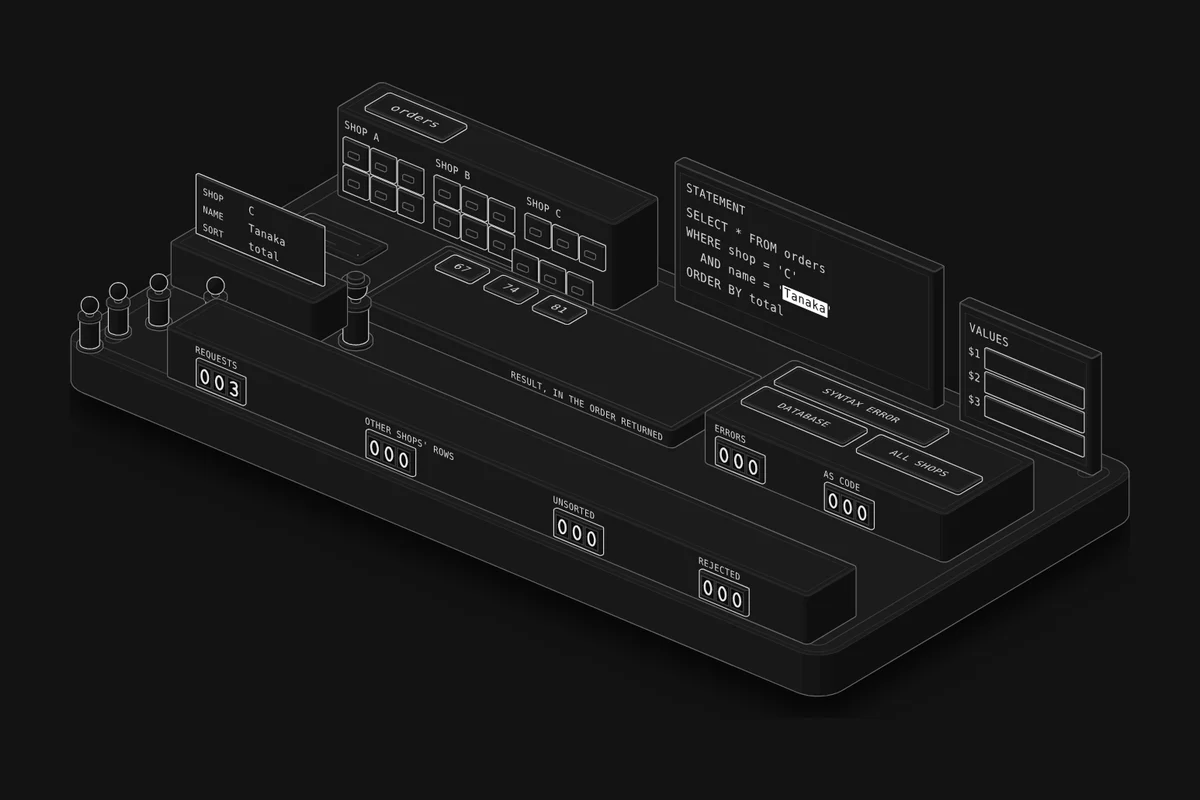
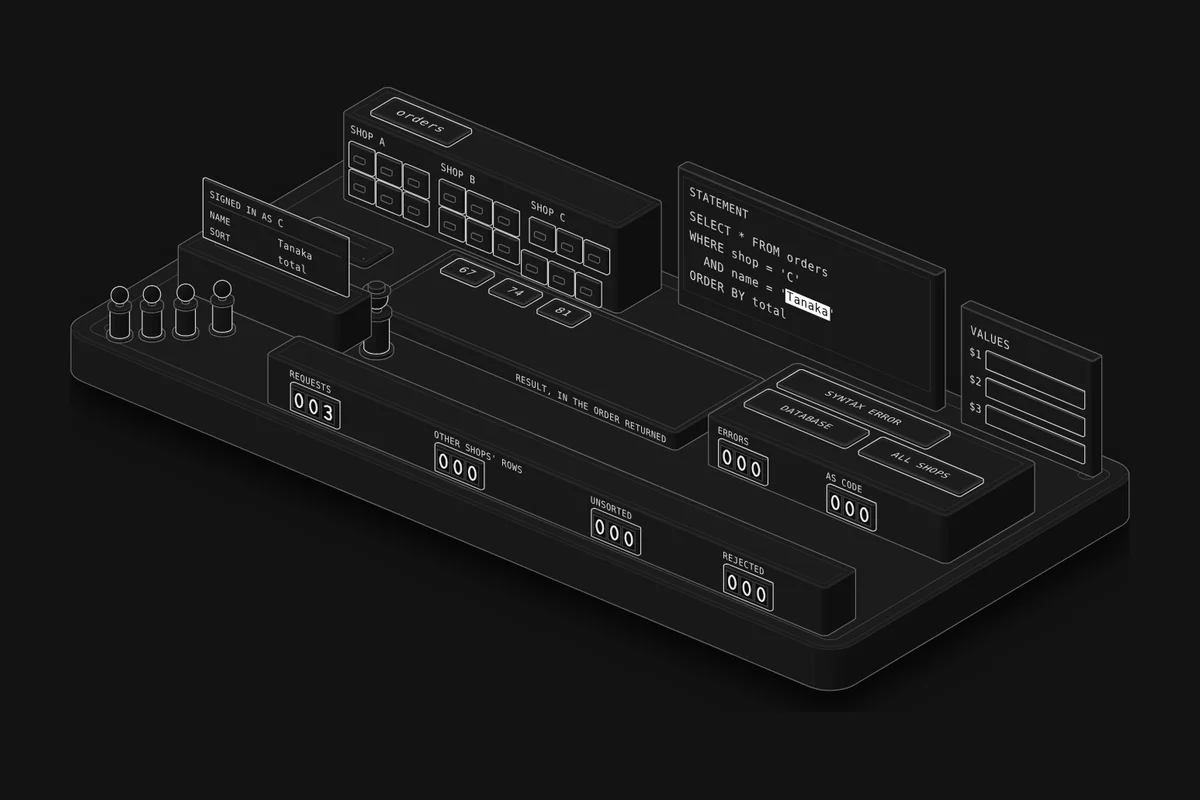
Lesson 83: fix review findings (shop from the session and $1 unlit, value boxes, queue and bench layout, drawer order, held Watch results)
Claude-Session: https://claude.ai/code/session_01S5z2gCvevbrGU3fXgpGDmP

diff --git a/src/lessons/injection/figure.ts b/src/lessons/injection/figure.ts
@@ -1,12 +1,14 @@
 // @ts-nocheck: figure code in the style of the other lessons; drawing shorthands come from src/lib/draw.
 // A records room that answers order lookups with SQL.
-//   Front left: visitors (shop staff) queue at the window desk; the slip stand on the desk shows what the one at the
-//   window typed (shop, name, sort). The clerk behind the desk writes the statement on the big board at the back:
-//   pasted words are printed inline, on a lit strip; with parameters the statement keeps its $1 $2 $3 slots and the
-//   words go into the boxes of the VALUES board beside it. The cabinet at the back left is the orders table, a
-//   drawer per row, in three shops; the rows a statement returns slide out and are laid in the result tray in the
-//   order the database gave them, each card showing the value the list was sorted by (a lit card: another shop's row).
-//   With the row policy on, shutters close over the other shops' drawers. Counters on the tally bench, front right.
+//   Front left: visitors (shop staff) queue at the window desk; the slip stand on the desk shows the shop the one at
+//   the window is signed in as (from their session) and what they typed (name, sort). The clerk behind the desk writes
+//   the statement on the big board at the back: pasted words are printed inline, on a lit strip; with parameters the
+//   statement keeps its $1 $2 $3 slots and the values go into the boxes of the VALUES board beside it, the visitor's
+//   words lit, the app's own value ($1, the shop) not. The cabinet at the back left is the orders table, a drawer per
+//   row, in three shops; the rows a statement returns slide out and are laid in the result tray in the order the
+//   database gave them, each card showing the value the list was sorted by (a lit card: another shop's row). With the
+//   row policy on, shutters close over the other shops' drawers. The database, right of the tray, counts errors and
+//   requests whose words became code; the tally bench, front right, counts what came back to the window.
 // Built with the Anatomy kit (MIT, github.com/wheresryan22/anatomy) and the shared workbench parts.
 import * as k from "../../../workbench/kit.mjs";
 import { basePlate, labelPlate, digitCounter, person, plaque, faceText } from "../../../workbench/parts.mjs";
@@ -16,14 +18,14 @@ import { shorthand } from "../../lib/draw";
 export const WIDTH = 700;
 export const HEIGHT = 440;
 
-const PLATE = { x: -126, y: -100, w: 252, d: 126, r: 8 };
+const PLATE = { x: -132, y: -100, w: 258, d: 122, r: 8 };
 const PLATE_H = 12, FOOT_H = 5;
 
 // ---------- the orders cabinet (the table), back left ----------
 const CAB = { x: -120, y: -94, w: 92, d: 18, r: 1.4 };
 const CAB_H = 25;
 export const CAB_FRONT = CAB.y + CAB.d;
-export const DRAWER = { w: 8, h: 7, gap: 1, z: [2.6, 10.8], out: 5 };
+export const DRAWER = { w: 8, h: 7, gap: 1, z: [2.6, 10.8], out: 3.2 };
 export const GROUP_X = [0, 1, 2].map((g) => CAB.x + 3 + g * 30);      // left edge of each shop's drawers
 // drawer i (0..17, the table's storage order): shop g = floor(i / 6), then 3 columns × 2 rows
 export const DRAWER_AT = Array.from({ length: 18 }, (_, i) => {
@@ -41,8 +43,8 @@ export const LINE_SIZE = 3.6;
 const VALS = { x: 74, y: -94, w: 44, d: 4, r: 0.6 };
 const VALS_H = 34;
 export const VALS_FACE = VALS.y + VALS.d;
-export const VAL_Z = [18.8, 11.8, 4.8];
-export const VAL_BOX = { x0: VALS.x + 9, x1: VALS.x + VALS.w - 2.5, h: 5.6 };
+export const VAL_Z = [19.4, 11.4, 3.4];
+export const VAL_BOX = { x0: VALS.x + 9, x1: VALS.x + VALS.w - 2.5, h: 5 };
 
 // ---------- the result tray, middle ----------
 const TRAY = { x: -76, y: -68, w: 104, d: 36, r: 1.4 };
@@ -55,13 +57,13 @@ export const CARD_AT = Array.from({ length: 18 }, (_, i) => {
 export const TRAY_TOP = TRAY_H;
 
 // ---------- the window desk and the visitors, front left ----------
-const DESK = { x: -123, y: -28, w: 48, d: 14, r: 1.4 };
+const DESK = { x: -123, y: -28, w: 54, d: 14, r: 1.4 };
 const DESK_H = 12;
-const STAND = { x: -120, y: -22, w: 42, d: 1, z: DESK_H, h: 17 };
+const STAND = { x: -120, y: -22, w: 48, d: 1, z: DESK_H, h: 17 };
 export const STAND_FACE = STAND.y + STAND.d;
-export const CLERK = [-68, -22, 0];
+export const CLERK = [-63, -22, 0];
 export const WINDOW = [-100, -5];
-export const QUEUE = [[-112, 3], [-117, 13], [-118, 23]];
+export const QUEUE = [[-106, 2.4], [-112, 8.6], [-118, 14.2]];
 export const EXIT = [-122, -11];
 
 // ---------- the database engine, right ----------
@@ -69,7 +71,8 @@ const DB = { x: 38, y: -68, w: 80, d: 36, r: 1.6 };
 const DB_H = 14;
 
 // ---------- the tally bench, front right ----------
-const BENCH = { x: -94, y: 2, w: 212, d: 20, r: 1.4 };
+// to the right of the queue, so the one at the window and the line stay in view
+const BENCH = { x: -68, y: 3, w: 186, d: 13, r: 1.4 };
 const BENCH_H = 14;
 
 export const P = k.fitProjection(
@@ -99,7 +102,8 @@ function cabinet() {
   out.push(plaque(P, { x: CAB.x + 6, y: CAB.y + 4, z: CAB_H, w: 26, d: 10, text: "orders", size: 4 }));
   return out.join("");
 }
-// A drawer, moved out by the live code when its row is returned.
+// A drawer, moved out by the live code when its row is returned (it re-sorts them so a pulled drawer covers the ones
+// it stands in front of).
 function drawer(i) {
   const { x, z } = DRAWER_AT[i];
   const plan = { x, y: CAB_FRONT - 0.4, w: DRAWER.w, d: 1.2, r: 0.3 };
@@ -132,7 +136,6 @@ function board() {
 // The values board: the parameters, one box each. Empty when the words are pasted into the statement.
 function values() {
   const out = [S(k.slabOf(VALS, 0, VALS_H, P, 3, 0.4), { tone: "mid", crease: "lo" })];
-  out.push(L(k.faceRectY(P, VALS.x + 2, VALS.x + VALS.w - 2, VALS_FACE, 2, VALS_H - 2), { tone: "faint" }));
   out.push(text(VALS.x + 3.4, VALS_FACE, VALS_H - 6.8, t("VALUES", "VALORES"), 3.4, { tone: "hi" }));
   VAL_Z.forEach((z, i) => {
     out.push(text(VALS.x + 3, VALS_FACE, z + 1.6, "$" + (i + 1), 3.2, { tone: "hi" }));
@@ -162,13 +165,15 @@ function desk() {
   out.push(S(k.slabOf({ x: STAND.x + 4, y: STAND.y - 3, w: STAND.w - 8, d: 4, r: 0.4 }, DESK_H, 1, P, 2), { tone: "lo", crease: "none" }));
   out.push(S(k.slabOf(plan, DESK_H + 1, STAND.h, P, 2, 0.2), { tone: "hi", crease: "lo" }));
   const z0 = DESK_H + 1, f = STAND_FACE;
-  out.push(text(STAND.x + 2.4, f, z0 + 12.2, t("SHOP", "TIENDA"), CAP));
-  out.push(text(STAND.x + 2.4, f, z0 + 7, t("NAME", "NOMBRE"), CAP));
+  // the shop comes from the visitor's session; a rule sets it apart from the two boxes they typed in
+  out.push(text(STAND.x + 2.4, f, z0 + 12.6, t("SIGNED IN AS", "SESIÓN DE"), CAP));
+  out.push(L(k.faceRectY(P, STAND.x + 2, STAND.x + STAND.w - 2, f, z0 + 11, z0 + 11.01), { tone: "lo" }));
+  out.push(text(STAND.x + 2.4, f, z0 + 6.6, t("NAME", "NOMBRE"), CAP));
   out.push(text(STAND.x + 2.4, f, z0 + 1.8, t("SORT", "ORDEN"), CAP));
-  const vx = STAND.x + 17.4;
-  out.push(faceText(P, [vx, f, z0 + 12.2], "", { size: 3.2, tone: "hi", attr: 'data-slip="shop"' }));
-  out.push(faceText(P, [vx, f, z0 + 7], "", { size: 3.2, tone: "hi", attr: 'data-slip="name"' }));
-  out.push(faceText(P, [vx, f, z0 + 1.8], "", { size: 3.2, tone: "hi", attr: 'data-slip="sort"' }));
+  const vx = STAND.x + 25;
+  out.push(faceText(P, [vx, f, z0 + 12.6], "", { size: 3, tone: "hi", attr: 'data-slip="shop"' }));
+  out.push(faceText(P, [vx, f, z0 + 6.6], "", { size: 3, tone: "hi", attr: 'data-slip="name"' }));
+  out.push(faceText(P, [vx, f, z0 + 1.8], "", { size: 3, tone: "hi", attr: 'data-slip="sort"' }));
   return out.join("");
 }
 
@@ -204,7 +209,7 @@ function bench() {
   const out = [S(k.slabOf(BENCH, 0, BENCH_H, P, 3, 0.5), { tone: "mid" })];
   out.push(L(k.planOutline(k.insetPlan(BENCH, 2), BENCH_H, P), { tone: "faint" }));
   const front = BENCH.y + BENCH.d;
-  const xs = [BENCH.x + 10, BENCH.x + 66, BENCH.x + 128, BENCH.x + 176];
+  const xs = [BENCH.x + 8, BENCH.x + 56, BENCH.x + 108, BENCH.x + 152];
   TALLY.forEach(([name, words], i) => out.push(counterWithWord(xs[i], front, name, words)));
   return out.join("");
 }
@@ -218,13 +223,13 @@ export function buildFigure() {
     width: WIDTH,
     height: HEIGHT,
     label: t(
-      "A records room on a base plate. At the back left, a cabinet of eighteen drawers is the orders table, six rows for each of three shops, A, B and C. Beside it, a tall board shows the SQL statement the app sends, line by line; words a visitor typed are printed on a lit strip, and a SYNTAX ERROR placard lights when the database refuses the statement. To its right, a values board holds the parameters $1, $2 and $3 in separate boxes. In front of the cabinet, staff of the shops queue at a window desk; a stand on the desk shows the visitor's shop, the name they typed and the column they want the list sorted by, and a clerk stands behind it. The rows the statement returns slide out of the cabinet and appear as cards in a result tray, in the order returned, each showing the value the list was sorted by; cards from another shop are lit. With the row policy on, shutters close over the other shops' drawers. Counters on a bench at the front count requests, syntax errors, rows from other shops, requests whose words became code, lists that came back unsorted and sort values rejected.",
-      "Una sala de archivo sobre una placa base. Atrás a la izquierda, un mueble de dieciocho cajones es la tabla de pedidos, seis filas para cada una de tres tiendas, A, B y C. Al lado, un tablero alto muestra la sentencia SQL que envía la app, línea por línea; las palabras que escribió un visitante van impresas sobre una franja encendida, y un cartel ERROR DE SINTAXIS se enciende cuando la base de datos rechaza la sentencia. A su derecha, un tablero de valores tiene los parámetros $1, $2 y $3 en casillas separadas. Delante del mueble, empleados de las tiendas hacen fila ante un mostrador; un atril sobre el mostrador muestra la tienda del visitante, el nombre que escribió y la columna por la que quiere ordenar la lista, y detrás está un empleado de la sala. Las filas que devuelve la sentencia salen del mueble y aparecen como tarjetas en una bandeja de resultado, en el orden devuelto, cada una con el valor por el que se ordenó la lista; las tarjetas de otra tienda se encienden. Con la política de filas activa, unas persianas cierran los cajones de las otras tiendas. Contadores en un banco al frente cuentan solicitudes, errores de sintaxis, filas de otras tiendas, solicitudes cuyas palabras se volvieron código, listas que volvieron sin orden y órdenes rechazados.",
+      "A records room on a base plate. At the back left, a cabinet of eighteen drawers is the orders table, six rows for each of three shops, A, B and C. At the back in the middle, a tall board shows the SQL statement the app sends, line by line; words a visitor typed are printed on a lit strip. At the back right, a values board holds the parameters $1, $2 and $3 in separate boxes, the visitor's words lit. In the middle, a result tray; the rows the statement returns slide out of the cabinet and appear as cards in it, in the order returned, each showing the value the list was sorted by; cards and drawers from another shop are lit. To the right of the tray, the database: a SYNTAX ERROR placard on its top lights when it refuses a statement, and counters on its front count errors and requests whose words became code. With the row policy on, shutters close over the other shops' drawers. At the front left, staff of the shops queue at a window desk with a clerk behind it; a stand on the desk shows the shop the visitor at the window is signed in as, and the name and sort column they typed. On a bench at the front right, counters count requests, rows from other shops, lists that came back unsorted and sort values rejected.",
+      "Una sala de archivo sobre una placa base. Atrás a la izquierda, un mueble de dieciocho cajones es la tabla de pedidos, seis filas para cada una de tres tiendas, A, B y C. Atrás al medio, un tablero alto muestra la sentencia SQL que envía la app, línea por línea; las palabras que escribió un visitante van impresas sobre una franja encendida. Atrás a la derecha, un tablero de valores tiene los parámetros $1, $2 y $3 en casillas separadas, encendidas las palabras del visitante. En el medio, una bandeja de resultado; las filas que devuelve la sentencia salen del mueble y aparecen en ella como tarjetas, en el orden devuelto, cada una con el valor por el que se ordenó la lista; las tarjetas y los cajones de otra tienda se encienden. A la derecha de la bandeja, la base de datos: un cartel ERROR DE SINTAXIS en su parte de arriba se enciende cuando rechaza una sentencia, y contadores en su frente cuentan los errores y las solicitudes cuyas palabras se volvieron código. Con la política de filas activa, unas persianas cierran los cajones de las otras tiendas. Adelante a la izquierda, empleados de las tiendas hacen fila ante un mostrador con un empleado de la sala detrás; un atril sobre el mostrador muestra la tienda con la que inició sesión el visitante de la ventanilla, y el nombre y la columna de orden que escribió. En un banco adelante a la derecha, contadores cuentan solicitudes, filas de otras tiendas, listas que volvieron sin orden y órdenes rechazados.",
     ),
     body: [
       plate(),
       cabinet(),
-      Array.from({ length: 18 }, (_, i) => drawer(i)).join(""),
+      `<g data-drawers>${Array.from({ length: 18 }, (_, i) => drawer(i)).join("")}</g>`,
       [0, 1, 2].map(shutter).join(""),
       board(),
       values(),

diff --git a/src/lessons/injection/page.ts b/src/lessons/injection/page.ts
@@ -194,13 +194,13 @@ export default defineLesson({
     plate: {
       title: t("Records room", "Sala de archivo"),
       keys: [
-        { mark: "lit", label: t("The visitor's words: on a strip in the statement when pasted, in a value box when sent as a parameter; a row from another shop; a refused statement", "Las palabras del visitante: en una franja de la sentencia si se pegan, en una casilla de valores si van como parámetro; una fila de otra tienda; una sentencia rechazada") },
+        { mark: "lit", label: t("The visitor's words: on a strip in the statement when pasted, in a value box when sent as a parameter; what they reach: a row from another shop, a refused statement", "Las palabras del visitante: en una franja de la sentencia si se pegan, en una casilla de valores si van como parámetro; lo que alcanzan: una fila de otra tienda, una sentencia rechazada") },
         { mark: "raised", label: t("Drawers, one per row of the orders table, six per shop; result cards; the staff in line", "Cajones, uno por fila de la tabla de pedidos, seis por tienda; tarjetas de resultado; los empleados en fila") },
         { mark: "flat", label: t("The result tray: rows in the order the database returned them", "La bandeja de resultado: las filas en el orden en que las devolvió la base de datos") },
       ],
       caption: t(
-        "The stand on the desk shows what the visitor at the window typed: their shop, a customer's name and a sort column. The board shows the statement the app sends. Pasted words sit inline on a lit strip, so you can see a quote in them end the app's string; with parameters the statement keeps $1, $2 and $3 and the words sit in the lit boxes of the values board. The database parses the text: a statement it can't parse lights SYNTAX ERROR. Otherwise the rows it matches slide out of their drawers and appear in the tray, each card showing the value the list was sorted by, lit if the row belongs to another shop. AS CODE counts requests whose words changed the statement's shape. With the row policy on, shutters close over the other shops' drawers for each visitor.",
-        "El atril del mostrador muestra lo que escribió el visitante de la ventanilla: su tienda, el nombre de un cliente y una columna de orden. El tablero muestra la sentencia que envía la app. Las palabras pegadas van en línea sobre una franja encendida, así se ve cómo una comilla en ellas cierra el texto de la app; con parámetros la sentencia conserva $1, $2 y $3, y las palabras van en las casillas encendidas del tablero de valores. La base de datos analiza el texto: una sentencia que no puede analizar enciende ERROR DE SINTAXIS. Si no, las filas que coinciden salen de sus cajones y aparecen en la bandeja, cada tarjeta con el valor por el que se ordenó la lista, encendida si la fila es de otra tienda. COMO CÓDIGO cuenta las solicitudes cuyas palabras cambiaron la forma de la sentencia. Con la política de filas activa, unas persianas cierran los cajones de las otras tiendas para cada visitante.",
+        "The stand on the desk shows the shop the visitor at the window is signed in as (the app's value, from their session) and what they typed: a customer's name and a sort column. Pasted words sit inline in the statement on a lit strip, so you can see a quote in them end the app's string; with parameters the statement keeps $1, $2 and $3, the visitor's words sit in the lit boxes of the values board, and $1, the shop, stays unlit. The database parses the text: a statement it can't parse lights SYNTAX ERROR. Otherwise the rows it matches slide out of their drawers and appear in the tray, each card showing the value the list was sorted by, lit if the row belongs to another shop. AS CODE counts requests whose words changed the statement's shape. With the row policy on, shutters close over the other shops' drawers.",
+        "El atril del mostrador muestra la tienda con la que inició sesión el visitante de la ventanilla (un valor de la app, de su sesión) y lo que escribió: el nombre de un cliente y una columna de orden. Las palabras pegadas van en línea en la sentencia sobre una franja encendida, así se ve cómo una comilla en ellas cierra el texto de la app; con parámetros la sentencia conserva $1, $2 y $3, las palabras del visitante van en las casillas encendidas del tablero de valores, y $1, la tienda, queda apagada. La base de datos analiza el texto: una sentencia que no puede analizar enciende ERROR DE SINTAXIS. Si no, las filas que coinciden salen de sus cajones y aparecen en la bandeja, cada tarjeta con el valor por el que se ordenó la lista, encendida si la fila es de otra tienda. COMO CÓDIGO cuenta las solicitudes cuyas palabras cambiaron la forma de la sentencia. Con la política de filas activa, unas persianas cierran los cajones de las otras tiendas.",
       ),
       stage: { "data-records": "" },
       label: t("SQL injection simulation. Space pauses or resumes.", "Simulación de inyección SQL. Espacio pausa o reanuda."),
@@ -223,8 +223,8 @@ export default defineLesson({
       { speed: true },
       { actions: [["apos", t("Send O'Neil", "Enviar a O'Neil")], ["attack", t("Send ' OR '1'='1", "Enviar ' OR '1'='1")], ["reset", t("Start over", "Empezar de nuevo")], ["pause", t("Pause", "Pausa")]], label: t("Do something", "Haz algo") },
     ],
-    note: t("The orders table has 18 rows: three shops, two customers each, three orders per customer. An edited sort value asks for cost, a real column the page never offers. Changing a setting starts the run again.",
-      "La tabla de pedidos tiene 18 filas: tres tiendas, dos clientes cada una, tres pedidos por cliente. Un orden editado pide cost, una columna real que la página nunca ofrece. Cambiar un ajuste reinicia la ejecución."),
+    note: t("The orders table has 18 rows: three shops, two customers each, three orders per customer. An edited sort value asks for cost, a real column the page never offers. Changing a setting starts the run again. A visitor sent with a button or by Watch it in the figure keeps the window for 8 seconds, so their result stays up.",
+      "La tabla de pedidos tiene 18 filas: tres tiendas, dos clientes cada una, tres pedidos por cliente. Un orden editado pide cost, una columna real que la página nunca ofrece. Cambiar un ajuste reinicia la ejecución. Un visitante enviado con un botón o con Míralo en la figura se queda 8 segundos en la ventanilla, así su resultado sigue a la vista."),
   },
   predict: { intro: t("Each experiment changes one thing. Choose what you expect <em>before</em> running it. Results come from the same model as the machine, averaged over eight seeded runs of " + N + " requests each.",
     "Cada experimento cambia una sola cosa. Elige lo que esperas <em>antes</em> de ejecutarlo. Los resultados salen del mismo modelo que la máquina, promediados sobre ocho ejecuciones con semilla fija de " + N + " solicitudes cada una."), experiments: withResults(EXPERIMENTS, RUNS) },

diff --git a/src/lessons/injection/live.ts b/src/lessons/injection/live.ts
@@ -12,6 +12,7 @@ import { clamp } from "../../lib/stats";
 import { makeDesk, ROWS, SORTS, CLASSIC, OFF_LIST } from "./sim";
 
 const CYCLE = 3.4, WALK = 0.7, RUN = 1.4;            // model seconds: a visitor's turn, the walk, when the query runs
+const HELD = 8;                                       // a sent visitor's turn (Send buttons, Watch): its result stays up
 
 export default function mount({ P, G, VISITOR_SVG }, root) {
   const { stage, svg } = root.figure;
@@ -23,6 +24,7 @@ export default function mount({ P, G, VISITOR_SVG }, root) {
   const vals = qa("[data-val]").map((g) => ({ g, text: g.querySelector("[data-val-text]") }));
   const slip = { shop: q('[data-slip="shop"]'), name: q('[data-slip="name"]'), sort: q('[data-slip="sort"]') };
   const drawers = qa("[data-drawer]");
+  const drawerBox = q("[data-drawers]");
   const shutters = qa("[data-shutter]");
   const cards = qa("[data-card]").map((g) => ({ g, text: g.querySelector("[data-card-text]") }));
   const errorPlaque = q("[data-error]");
@@ -41,13 +43,13 @@ export default function mount({ P, G, VISITOR_SVG }, root) {
 
   // ---------- settings and the run ----------
   const cfg = { name: "paste", sort: "allow", account: "full", attack: "0", tamper: "0", speed: 1 };
-  let desk, clock, turnAt, cur, prev, forced = [], seed = 3, outAt = new Map(), shown = null;
+  let desk, clock, turnAt, turnLen = CYCLE, cur, prev, forced = [], seed = 3, outAt = new Map(), shown = null;
   let people = [];                                   // { g, from, to, fade: "in" | "out" | null }
 
   function restart() {
     desk = makeDesk({ name: cfg.name, sort: cfg.sort, account: cfg.account, attack: Number(cfg.attack), tamper: Number(cfg.tamper) }, seed);
     seed = (seed * 7 + 3) % 9973 + 1;
-    clock = 0; turnAt = -CYCLE; cur = null; prev = null; shown = null;
+    clock = 0; turnAt = -CYCLE; turnLen = CYCLE; cur = null; prev = null; shown = null;
     for (const p of people) drop(p.g);
     people = [];
     // the line: the first turn walks the one at its front up to the window
@@ -87,7 +89,7 @@ export default function mount({ P, G, VISITOR_SVG }, root) {
     vals.forEach((v, i) => {
       const value = r && r.values[i] !== undefined ? String(r.values[i]) : "";
       setText(v.text, value);
-      setLit(v.g, value !== "");
+      setLit(v.g, value !== "" && r.from[i] === "in");      // the visitor's words; $1, the shop, is the app's
     });
     setText(slip.shop, r ? r.req.shop : "");
     setText(slip.name, r ? r.req.name : "");
@@ -117,12 +119,26 @@ export default function mount({ P, G, VISITOR_SVG }, root) {
     });
     shown = r;
   }
+  // painter's order for the drawers: lower row first, then by how far out and from left to right, so a pulled
+  // drawer covers the ones it stands in front of
+  const pulled = new Array(drawers.length).fill(0);
+  let drawerOrder = "";
+  function sortDrawers() {
+    const key = pulled.map((u) => (u > 0 ? 1 : 0)).join("");
+    if (key === drawerOrder) return;
+    drawerOrder = key;
+    const depth = (i) => depthOf([G.DRAWER_AT[i].x + G.DRAWER.w / 2, G.CAB_FRONT + (pulled[i] > 0 ? G.DRAWER.out : 0), G.DRAWER_AT[i].z], P);
+    drawers.map((_, i) => i).sort((a, b) => depth(a) - depth(b)).forEach((i) => drawerBox.appendChild(drawers[i]));
+  }
   function paintResult() {
+    pulled.fill(0);
     for (const [i, o] of outAt) {
       const u = o.back < Infinity ? 1 - clamp((clock - o.back) / 0.25) : clamp((clock - o.at) / 0.25);
+      pulled[i] = u;
       drawers[i].setAttribute("transform", u > 0 ? translateAlong(P, [0, G.DRAWER.out * easeInOutQuad(u), 0]) : "");
       if (o.back < Infinity && u <= 0) outAt.delete(i);
     }
+    sortDrawers();
     if (shown) shown.rows.forEach((_, k) => show(cards[k].g, clock >= cards[k].at));
   }
   function setShutters(r) {
@@ -165,6 +181,7 @@ export default function mount({ P, G, VISITOR_SVG }, root) {
   // ---------- the turn: walk up, write, run ----------
   function startTurn() {
     turnAt = clock;
+    turnLen = forced.length ? HELD : CYCLE;
     prev = cur; cur = null;
     // everyone steps forward; the one at the window leaves; a newcomer joins at the back
     for (const p of people) {
@@ -205,7 +222,7 @@ export default function mount({ P, G, VISITOR_SVG }, root) {
 
   function step(dt) {
     clock += dt * cfg.speed;
-    if (clock - turnAt >= CYCLE) startTurn();
+    if (clock - turnAt >= turnLen) startTurn();
     const t = clock - turnAt;
     if (!cur && t >= WALK) serveNow();
     if (cur && shown !== cur && t >= RUN) runNow();

diff --git a/src/lessons/injection/sim.ts b/src/lessons/injection/sim.ts
@@ -158,21 +158,22 @@ export function execute(ast, values, visible) {
 // ---------- the app: how one request becomes a statement ----------
 const esc = (s) => s.replace(/'/g, "''");
 // The statement as lines of segments [text, kind]: "tpl" is the app's own text, "in" the user's words pasted in,
-// "slot" a parameter placeholder, "list" a column name the app took from its allowlist.
+// "slot" a parameter placeholder, "list" a column name the app took from its allowlist. from[i] says where value i
+// came from: "app" (the shop, from the visitor's session) or "in" (words the visitor's request carried).
 export function build(req, cfg) {
   const lines = [[["SELECT * FROM orders", "tpl"]]];
-  const values = [];
-  const slot = (v) => { values.push(v); return ["$" + values.length, "slot"]; };
-  const shop = cfg.name === "param" ? slot(req.shop) : ["'" + req.shop + "'", "tpl"];
+  const values = [], from = [];
+  const slot = (v, src = "in") => { values.push(v); from.push(src); return ["$" + values.length, "slot"]; };
+  const shop = cfg.name === "param" ? slot(req.shop, "app") : ["'" + req.shop + "'", "tpl"];
   lines.push([["WHERE shop = ", "tpl"], shop]);
   const nameIn = cfg.name === "escape" ? esc(req.name) : req.name;
   lines.push(cfg.name === "param" ? [["  AND name = ", "tpl"], slot(req.name)] : [["  AND name = '", "tpl"], [nameIn, "in"], ["'", "tpl"]]);
   if (cfg.sort === "allow") {
-    if (!SORTS.includes(req.sort)) return { rejected: true, lines: [...lines, [["ORDER BY ", "tpl"], ["?", "tpl"]]], values };
+    if (!SORTS.includes(req.sort)) return { rejected: true, lines: [...lines, [["ORDER BY ", "tpl"], ["?", "tpl"]]], values, from };
     lines.push([["ORDER BY ", "tpl"], [req.sort, "list"]]);
   } else if (cfg.sort === "param") lines.push([["ORDER BY ", "tpl"], slot(req.sort)]);
   else lines.push([["ORDER BY ", "tpl"], [cfg.sort === "escape" ? esc(req.sort) : req.sort, "in"]]);
-  return { lines, values, sql: lines.map((l) => l.map((s) => s[0]).join("")).join("\n") };
+  return { lines, values, from, sql: lines.map((l) => l.map((s) => s[0]).join("")).join("\n") };
 }
 
 // The shapes the app means to send in this mode: the same build with an ordinary name and each offered sort.
@@ -181,7 +182,7 @@ const allowedShapes = (cfg) => new Set(SORTS.map((sort) => { const a = parse(bui
 // One request through the app and the database.
 export function serve(req, cfg) {
   const b = build(req, cfg);
-  const out = { req, lines: b.lines, values: b.values, sql: b.sql, rejected: !!b.rejected, error: null, rows: [], leaked: 0, asCode: false, unsorted: false };
+  const out = { req, lines: b.lines, values: b.values, from: b.from, sql: b.sql, rejected: !!b.rejected, error: null, rows: [], leaked: 0, asCode: false, unsorted: false };
   if (b.rejected) return out;
   const ast = parse(b.sql);
   if (ast.error) { out.error = ast.error; return out; }
